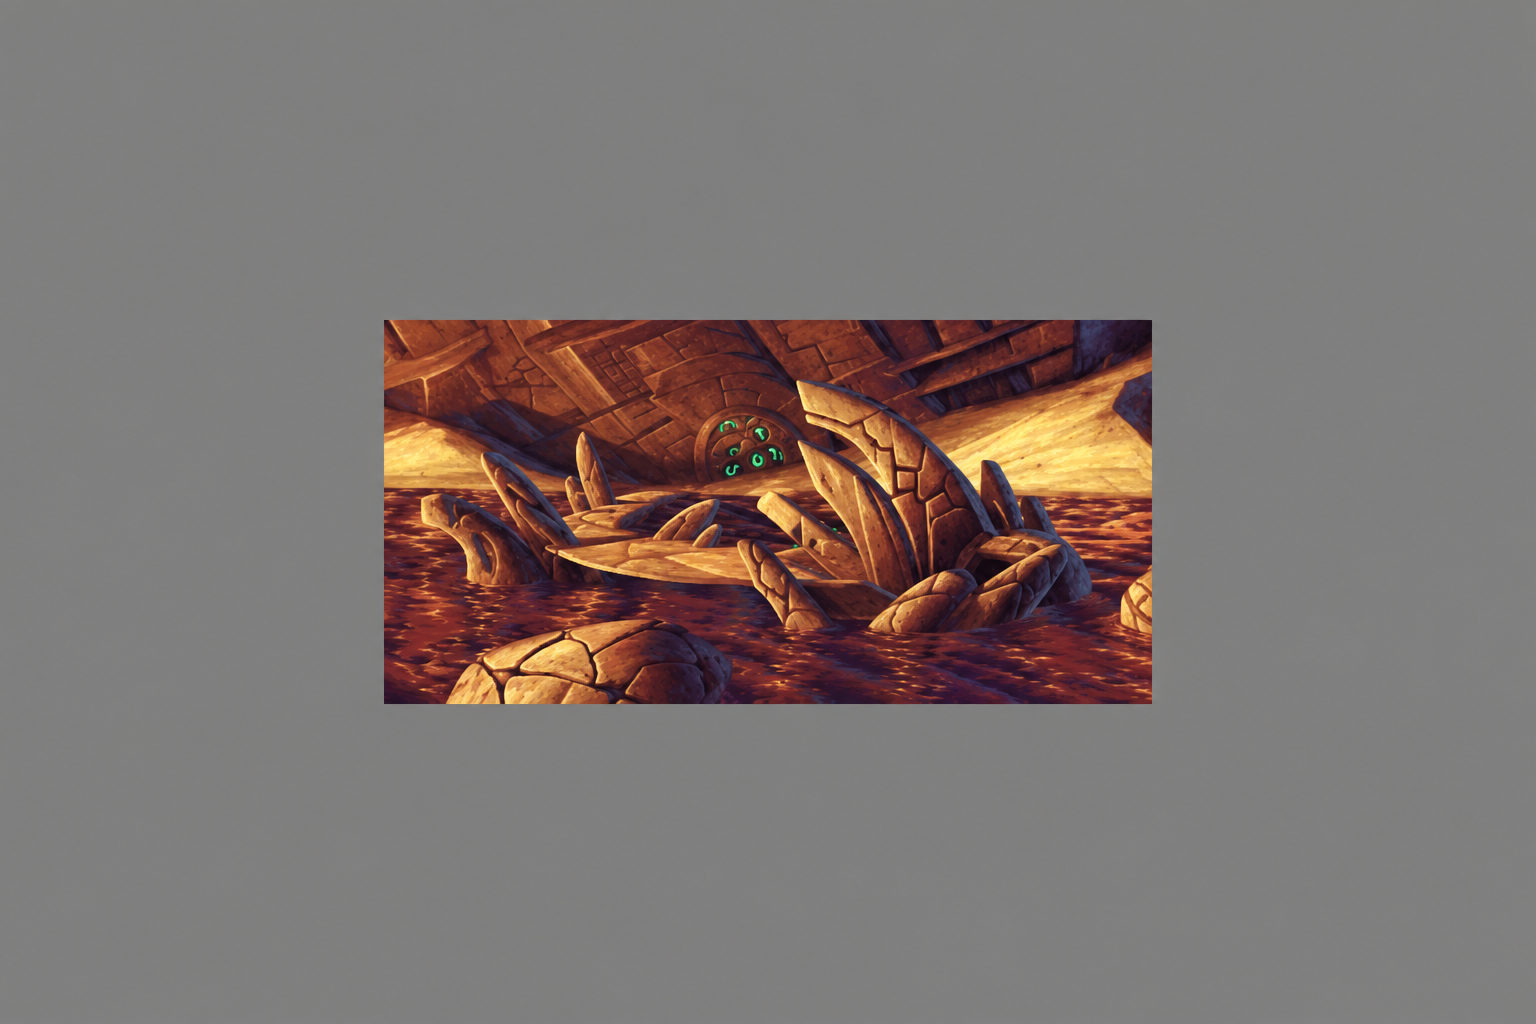
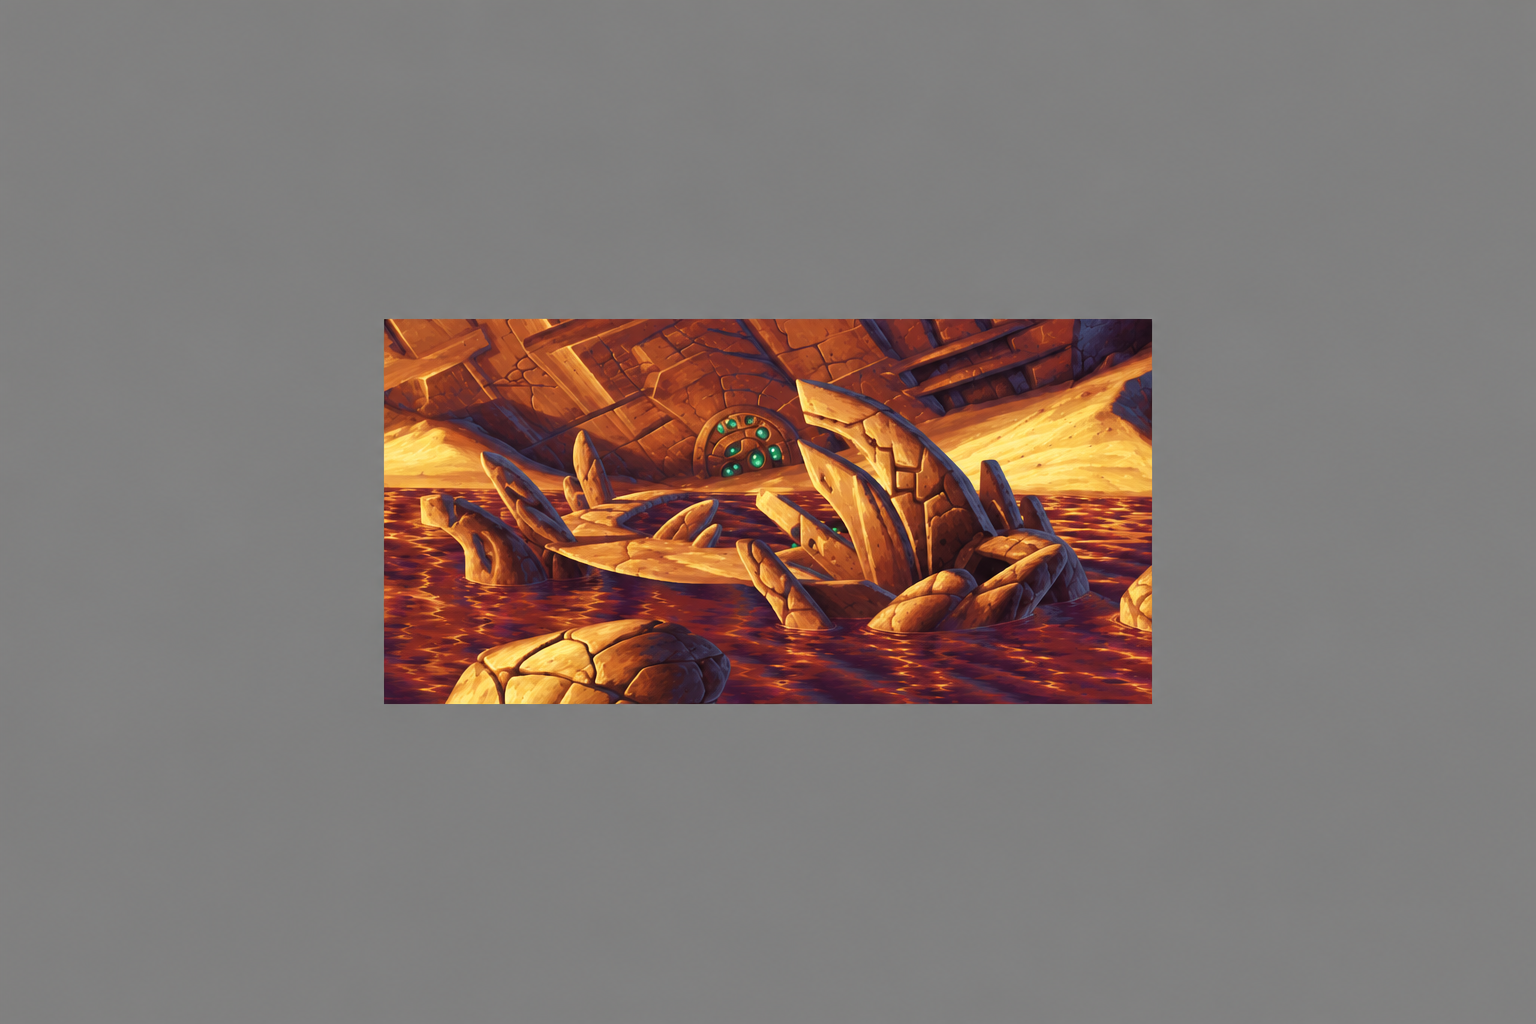
GPT: rom111, rom025_del3av3, rom026_del1av3, rom026_del2av3, rom026_del3av3, rom027_del1av8, rom027_del2av8, obj097_01, rom027_del3av8, rom027_del4av8

Changed region(s): [[0.25, 0.3125, 0.75, 0.6875]]

diff --git a/jobber/obj097_01/notat.md b/jobber/obj097_01/notat.md
@@ -1,32 +1,21 @@
-# Notat: obj097_01
+# obj097_01
 
-Status: Kandidat til kontroll. Ikke bekreftet trofast.
+Levert for Claudes kontroll.
 
-Dato: 2026-10-07T09:01:20+02:00 (Europe/Oslo).
-Verktøy: image_gen.imagegen, innebygd ChatGPT bildegenerering. Modellnavn og modellversjon ble ikke oppgitt.
-Antall forsøk: 2. Valgt forsøk: 2.
-Bilde 2 var stil/room009_core.png i begge forsøk.
-Gjeldende prompt.txt ble brukt ordrett, inkludert avsluttende linjeskift. Referanse.png var bilde 1.
-Resultatet er kopiert uendret fra generatoren. Ingen etterbehandling, fargelås eller kantreparasjon.
-Generert kilde: /home/tombonator3000t/.codex/generated_images/01a105a8-96c5-7003-8874-45f031b6d721/exec-f68131bf-616a-4c0f-86e6-ddbac68a22e6.png
-PNG størrelse: 1536 x 1024. PNG strukturen kunne dekodes og verifiseres.
+- Verktøy: ChatGPT Images, innebygd bildeverktøy i Codex. Modellnavn og versjon vises ikke.
+- Dato: 2026-10-07 10:33 CEST.
+- Forsøk: 4. Valgt forsøk: 4.
+- Prompt: prompt.txt brukt ordrett i alle forsøk.
+- Bilde 1: referanse.png. Bilde 2 i valgt forsøk: jobber/rom011/resultat.png.
+- Format: PNG, 1536 x 1024. Originalfilen fra bildeverktøyet er kopiert direkte.
 
-Visuell kontroll:
-Hovedstruktur og plassering av steinsplinter følger omtrent referansen. De grønne tegnene er mer buede enn i forsøk 1, som tolket dem som glødende edelstener, men tegnenes former er fortsatt omtolket. Bruddlinjer og enkelte små splinter har også endret form. De grønne gåtetegnene må kontrolleres særskilt, og kandidaten bør ikke integreres før dette er avklart.
-Gråkanten er teksturert og ikke jevn #808080.
+Nytt forsøk etter Claudes retur om grønne merker og samsvar med rom 11. Rom011/resultat.png er brukt som bilde 2 slik Claude ba om. Tredje forsøk endret størrelsen på motivet og ble forkastet; fjerde forsøk beholder utsnittets hovedstørrelse visuelt. Merkene er nå små grønne flekker i stedet for krøllete tegn, men generatoren tegner fortsatt en tydelig buet skive rundt dem. Kontroller flekkenes antall, plassering og samsvar med den godkjente rombakgrunnen før bruk. Dette er en kandidat til ny kontroll, ikke en bekreftelse på at returen er løst. Original prompt.txt ble brukt ordrett; returens alternative prompt er ikke brukt fordi Tom ennå ikke har svart på avklaringen om endret prompt.
 
-Skrivebeskyttet geometrikontroll:
-compare/judge fra canonical pipeline/dighd/gpt.py, Git blob ca8a4eb967bb563197ae798c0cb44ed070417fd7, ble kjørt i minnet mot original_1x.png med metadatautsnittet. dighd gpt-inn ble ikke kjørt.
-Skift x/y: 0.19/-0.06 originalpiksler. Blokk maksimum: 0.44. Kantlikhet: 0.972. Fargeavvik: 11.6. Format: lerret. Automatisk dom: godkjent.
-Dommen gjelder grov geometri og er ingen trofastgodkjenning eller godkjenning fra Claude/Tom.
-Gråkant: 1202496 av 1277952 piksler avviker fra RGB 128,128,128. Kanalverdier: 107 til 147.
+Den grå kanten har svak gradering og er ikke ensfarget #808080. Den er levert som generert.
 
-| Fil | SHA256 |
-| --- | --- |
-| referanse.png | 965dab5d774ee032826ba5eb112228379cbf7eb4756a3f9c474b9a2e4cd71471 |
-| original_1x.png | 0fbc0f568eff1da0e565ec942fb85d398fd9e75f7f8a346d5f7f027b0ecf0a0b |
-| prompt.txt | 1cf16ce2d8b9f0610543502319b6108f723b4ff42a2ce3b1db3713b64bea8521 |
-| stil/room009_core.png | fd37d46069b111b1f5c85bdfde9f429dbc5f8a7f8333efc9d24ab466fc6c2ba4 |
-| resultat.png | 428500f986f9d6e9f4972e2bf7a1ad4b9256bc3e8d9c7b4a529ed5c66045c024 |
+Visuell sammenligning er utført. Claudes automatiske kontroll, sammensying og kontroll i spillet gjenstår.
 
-Promptsjekksummen over gjelder hele filen med siste linjeskift. Metadata bruker samme tekst uten siste linjeskift. Inputfilene er beholdt uendret.
+Referanse SHA256: 965dab5d774ee032826ba5eb112228379cbf7eb4756a3f9c474b9a2e4cd71471
+Prompt SHA256: 1cf16ce2d8b9f0610543502319b6108f723b4ff42a2ce3b1db3713b64bea8521
+Stilanker SHA256: 3480c199b110010416d88eabfa1c8cb20c07823441b2dda9bf6146d5c7b42a85
+Resultat SHA256: 0db62e771d497440a441ca8efe23eb0f927b0c65a11a95511be80aa7ba321bd6

diff --git a/jobber/rom111/notat.md b/jobber/rom111/notat.md
@@ -3,13 +3,13 @@
 Levert for Claudes kontroll.
 
 - Verktøy: ChatGPT Images, innebygd bildeverktøy i Codex. Modellnavn og versjon vises ikke.
-- Dato: 2026-10-07 09:57 CEST.
-- Forsøk: 2. Valgt forsøk: 1.
+- Dato: 2026-10-07 10:33 CEST.
+- Forsøk: 3. Valgt forsøk: 3.
 - Prompt: prompt.txt brukt ordrett i alle forsøk.
-- Bilde 1: referanse.png. Bilde 2: stil/room022_beach.png.
+- Bilde 1: referanse.png. Bilde 2 i valgt forsøk: stil/room009_core.png.
 - Format: PNG, 1536 x 1024. Originalfilen fra bildeverktøyet er kopiert direkte.
 
-Forsøk 1 er valgt fordi refleksjonene i den store skålen er mindre kraftige enn i forsøk 2. De grønne feltenes hovedkonturer og fjellspissene er sammenlignet visuelt. De fineste konturene, den grønne gløden og bakgrunnens refleksjoner trenger Claudes kontroll.
+Nytt forsøk etter Claudes retur om lokal forskyvning opptil 4,4 originalpiksler. Referansen er brukt på nytt med core som stilanker. De fire grønne flatene og den store buede kanten følger referansens oppsett visuelt. Krystallkonturer og hulrom må måles på nytt av Claude; den tidligere avvisningen er ikke opphevet av denne visuelle kontrollen. Den varme refleksjonen i bakgrunnen er sterkere. Original prompt.txt ble brukt ordrett; returens alternative prompt er ikke brukt fordi Tom ennå ikke har svart på avklaringen om endret prompt.
 
 Den grå kanten har svak gradering og er ikke ensfarget #808080. Den er levert som generert.
 
@@ -17,5 +17,5 @@ Visuell sammenligning er utført. Claudes automatiske kontroll, sammensying og k
 
 Referanse SHA256: 2c68dd79b7849d984845ee2599e6e445b194ad9df4d67b66f03077b04dc2aed1
 Prompt SHA256: f5e5319b2aeb869bb02243dc9cc98900cdc8dc9731a63d232b8ddf92dd84ab3e
-Stilanker SHA256: 08796e71cd07d91b4a6773cc383c8589bd1f69f491d7e20c8f9f01b2f296f39f
-Resultat SHA256: 1b9a238fe7481e6504ca20471855fa574beb282c668926eb6b3a91a6ecb61da6
+Stilanker SHA256: fd37d46069b111b1f5c85bdfde9f429dbc5f8a7f8333efc9d24ab466fc6c2ba4
+Resultat SHA256: 8c83cd351534cff4e283e83e5affcebac2bf85e15c357f4ae97e268b968d5899

diff --git a/jobber/rom027_del3av8/notat.md b/jobber/rom027_del3av8/notat.md
@@ -1,0 +1,21 @@
+# rom027_del3av8
+
+Levert for Claudes kontroll.
+
+- Verktøy: ChatGPT Images, innebygd bildeverktøy i Codex. Modellnavn og versjon vises ikke.
+- Dato: 2026-10-07 10:33 CEST.
+- Forsøk: 2. Valgt forsøk: 2.
+- Prompt: prompt.txt brukt ordrett i alle forsøk.
+- Bilde 1: referanse.png. Bilde 2 i valgt forsøk: stil/room009_core.png.
+- Format: PNG, 1536 x 1024. Originalfilen fra bildeverktøyet er kopiert direkte.
+
+Valgt andre forsøk med roligere blå lyspunkter. Plattformens underside, den lange hengende strukturen og de store mørke feltene følger referansens hovedoppsett visuelt. Begge forsøk gjør flere små blå punkter og vertikale detaljer tydelige enn i originalen. Punktene og de tynne konturene er ikke bekreftet trofaste. Kontroller og korriger disse ved behov, samt overlappene mot de andre delene.
+
+Ingen grå kant i dette utsnittet.
+
+Visuell sammenligning er utført. Claudes automatiske kontroll, sammensying og kontroll i spillet gjenstår.
+
+Referanse SHA256: c26b6de8d1a6614105fb4b75b9956f85eb7c16680e22a20df011398a03d8a25d
+Prompt SHA256: 9d62e53e9403cbbeea26c684d9cc2aa611a404ac97543964d0bbeef0c87ac5ca
+Stilanker SHA256: fd37d46069b111b1f5c85bdfde9f429dbc5f8a7f8333efc9d24ab466fc6c2ba4
+Resultat SHA256: 4715bb3073d7feacaf79275bbfc0a56d6de7d22df7c94d13ee46620b7e4424b1

diff --git a/jobber/rom027_del1av8/notat.md b/jobber/rom027_del1av8/notat.md
@@ -1,0 +1,21 @@
+# rom027_del1av8
+
+Levert for Claudes kontroll.
+
+- Verktøy: ChatGPT Images, innebygd bildeverktøy i Codex. Modellnavn og versjon vises ikke.
+- Dato: 2026-10-07 10:33 CEST.
+- Forsøk: 1. Valgt forsøk: 1.
+- Prompt: prompt.txt brukt ordrett i alle forsøk.
+- Bilde 1: referanse.png. Bilde 2 i valgt forsøk: stil/room009_core.png.
+- Format: PNG, 1536 x 1024. Originalfilen fra bildeverktøyet er kopiert direkte.
+
+Plattformen, den brede skrå sokkelen og den buede gangveien til den oransje søylen følger referansens hovedoppsett. De små blå punktene på steinen til venstre er synlige også i originalen, men må kontrolleres hver for seg. Veggtekstur, mindre rør og små brudd er tydeligere og delvis tolket. Kontroller søylekonturer og alle overlapp.
+
+Ingen grå kant i dette utsnittet.
+
+Visuell sammenligning er utført. Claudes automatiske kontroll, sammensying og kontroll i spillet gjenstår.
+
+Referanse SHA256: 249232373a47522da66e05ff40043745379d9c562432c56f2145702375161a73
+Prompt SHA256: cad18d4877936ec401fd4c86ccd4359e2dcf537e62fda2a9d004bbdb24ca970a
+Stilanker SHA256: fd37d46069b111b1f5c85bdfde9f429dbc5f8a7f8333efc9d24ab466fc6c2ba4
+Resultat SHA256: f8b57ec2bcd3c6cb0c11badda0cc5a8573b9da1131b545bd344aabe86eeb4424

diff --git a/jobber/rom026_del1av3/notat.md b/jobber/rom026_del1av3/notat.md
@@ -1,0 +1,21 @@
+# rom026_del1av3
+
+Levert for Claudes kontroll.
+
+- Verktøy: ChatGPT Images, innebygd bildeverktøy i Codex. Modellnavn og versjon vises ikke.
+- Dato: 2026-10-07 10:33 CEST.
+- Forsøk: 1. Valgt forsøk: 1.
+- Prompt: prompt.txt brukt ordrett i alle forsøk.
+- Bilde 1: referanse.png. Bilde 2 i valgt forsøk: stil/room009_core.png.
+- Format: PNG, 1536 x 1024. Originalfilen fra bildeverktøyet er kopiert direkte.
+
+De store og små buene, vindusstagene, gangflaten og den delvis synlige gropen følger referansens hovedoppsett. De blå flatene og overflatene er mer detaljerte, og bølgemønsteret i bakgrunnen er tydeligere. Kontroller de tynne stagene, bakgrunnslinjene og overlappen mot del 2.
+
+Den grå kanten har svak gradering og er ikke ensfarget #808080. Den er levert som generert.
+
+Visuell sammenligning er utført. Claudes automatiske kontroll, sammensying og kontroll i spillet gjenstår.
+
+Referanse SHA256: adc00cc0aea37cec88bb73cb9ebfd40d13f7114f44056bbed64e272e81aa6197
+Prompt SHA256: 1d2af6b504387b45886c897ee0c6a0ed70e5c43916886fff90e0f66d7eb59751
+Stilanker SHA256: fd37d46069b111b1f5c85bdfde9f429dbc5f8a7f8333efc9d24ab466fc6c2ba4
+Resultat SHA256: 69d6140d91e84e4b8a281a874cfedfe1dc521cf49802655c75431acb63614f4f

diff --git a/jobber/rom025_del3av3/notat.md b/jobber/rom025_del3av3/notat.md
@@ -1,0 +1,21 @@
+# rom025_del3av3
+
+Levert for Claudes kontroll.
+
+- Verktøy: ChatGPT Images, innebygd bildeverktøy i Codex. Modellnavn og versjon vises ikke.
+- Dato: 2026-10-07 10:33 CEST.
+- Forsøk: 1. Valgt forsøk: 1.
+- Prompt: prompt.txt brukt ordrett i alle forsøk.
+- Bilde 1: referanse.png. Bilde 2 i valgt forsøk: stil/room009_core.png.
+- Format: PNG, 1536 x 1024. Originalfilen fra bildeverktøyet er kopiert direkte.
+
+Gangbroen, den mørke åpningen og hovedfasettene i den blå veggen følger referansens oppsett visuelt. Skarpere tekstur og flere små steinsprekker er lagt inn av generatoren. Kontroller særlig kanten under broen, den lille åpningen ved brofestet og overlappen mot del 2.
+
+Den grå kanten har svak gradering og er ikke ensfarget #808080. Den er levert som generert.
+
+Visuell sammenligning er utført. Claudes automatiske kontroll, sammensying og kontroll i spillet gjenstår.
+
+Referanse SHA256: e2eb1c7d099ea6ff05ae5c4ec95fa019d435ec019b1302f09048442acfc7771c
+Prompt SHA256: 0cb852dad8c8875692b7624ae5e68a78eb422adb5f3043ea59dad0bf094b48c2
+Stilanker SHA256: fd37d46069b111b1f5c85bdfde9f429dbc5f8a7f8333efc9d24ab466fc6c2ba4
+Resultat SHA256: 3eb3359861233ee31fbb4efe4e0bce3f3f7ff217ae02f9e61aaafa68636a64cb

diff --git a/jobber/rom027_del4av8/notat.md b/jobber/rom027_del4av8/notat.md
@@ -1,0 +1,21 @@
+# rom027_del4av8
+
+Levert for Claudes kontroll.
+
+- Verktøy: ChatGPT Images, innebygd bildeverktøy i Codex. Modellnavn og versjon vises ikke.
+- Dato: 2026-10-07 10:33 CEST.
+- Forsøk: 2. Valgt forsøk: 2.
+- Prompt: prompt.txt brukt ordrett i alle forsøk.
+- Bilde 1: referanse.png. Bilde 2 i valgt forsøk: stil/room009_core.png.
+- Format: PNG, 1536 x 1024. Originalfilen fra bildeverktøyet er kopiert direkte.
+
+Valgt andre forsøk med mindre punktglød. Den hengende strukturen og den mørke kløften følger hovedoppsettet visuelt. Generatoren gjør flere små blå punkter og fine linjer tydelige enn i referansen; punktmønsteret er ikke bekreftet trofast. Kontroller disse mot originalen og samsvaret med del 3 og del 6.
+
+Ingen grå kant i dette utsnittet.
+
+Visuell sammenligning er utført. Claudes automatiske kontroll, sammensying og kontroll i spillet gjenstår.
+
+Referanse SHA256: ddc571fb3cf416f4ae5731b9a9b7f33334588173bc4de1b2cfc3baef4d68b958
+Prompt SHA256: d070f4103c3e3d222c02333aef01992050e09dd8545ab6c82d81ff6358b5a4cd
+Stilanker SHA256: fd37d46069b111b1f5c85bdfde9f429dbc5f8a7f8333efc9d24ab466fc6c2ba4
+Resultat SHA256: fcb7ede2037b87ffbee7a133fc85f81153a680f7a83a21e140d7b4ce8733cddb

diff --git a/jobber/rom026_del2av3/notat.md b/jobber/rom026_del2av3/notat.md
@@ -1,0 +1,21 @@
+# rom026_del2av3
+
+Levert for Claudes kontroll.
+
+- Verktøy: ChatGPT Images, innebygd bildeverktøy i Codex. Modellnavn og versjon vises ikke.
+- Dato: 2026-10-07 10:33 CEST.
+- Forsøk: 1. Valgt forsøk: 1.
+- Prompt: prompt.txt brukt ordrett i alle forsøk.
+- Bilde 1: referanse.png. Bilde 2 i valgt forsøk: stil/room009_core.png.
+- Format: PNG, 1536 x 1024. Originalfilen fra bildeverktøyet er kopiert direkte.
+
+Sentralbuen, de runde sidebuene, gropen og de små stående lysfeltene følger hovedoppsettet visuelt. Gulvfugene og bølgemønsteret i de blå flatene er tolket. Kontroller særlig lysfeltenes antall, form og posisjon, samt begge overlappene.
+
+Den grå kanten har svak gradering og er ikke ensfarget #808080. Den er levert som generert.
+
+Visuell sammenligning er utført. Claudes automatiske kontroll, sammensying og kontroll i spillet gjenstår.
+
+Referanse SHA256: ea2d3669fbe474cc1331cb14cce0492cecb28417c3f713dce9b1dff952e61761
+Prompt SHA256: 9bc31d72106d15e153b7a3a0eaefdefc5dbb0909e1b58c5319139fd706c4de6a
+Stilanker SHA256: fd37d46069b111b1f5c85bdfde9f429dbc5f8a7f8333efc9d24ab466fc6c2ba4
+Resultat SHA256: 5013274b91744575d61acad3103533686e7130a99c3965dd66a702872e41d4e5

diff --git a/jobber/rom026_del3av3/notat.md b/jobber/rom026_del3av3/notat.md
@@ -1,0 +1,21 @@
+# rom026_del3av3
+
+Levert for Claudes kontroll.
+
+- Verktøy: ChatGPT Images, innebygd bildeverktøy i Codex. Modellnavn og versjon vises ikke.
+- Dato: 2026-10-07 10:33 CEST.
+- Forsøk: 1. Valgt forsøk: 1.
+- Prompt: prompt.txt brukt ordrett i alle forsøk.
+- Bilde 1: referanse.png. Bilde 2 i valgt forsøk: stil/room009_core.png.
+- Format: PNG, 1536 x 1024. Originalfilen fra bildeverktøyet er kopiert direkte.
+
+Buerekken, vindusstagene, gangflaten og gropen til venstre følger referansens oppsett visuelt. Små sprekker og bølgemønster er tolket. Kontroller stagene og lysfeltene i gropen mot del 2 ved sammensying.
+
+Den grå kanten har svak gradering og er ikke ensfarget #808080. Den er levert som generert.
+
+Visuell sammenligning er utført. Claudes automatiske kontroll, sammensying og kontroll i spillet gjenstår.
+
+Referanse SHA256: 688431f55086a4692d048090393905afd9dbed1f15d4364e1a8cd1710b3ee19b
+Prompt SHA256: 0cb852dad8c8875692b7624ae5e68a78eb422adb5f3043ea59dad0bf094b48c2
+Stilanker SHA256: fd37d46069b111b1f5c85bdfde9f429dbc5f8a7f8333efc9d24ab466fc6c2ba4
+Resultat SHA256: ea8efae8bd992f5209603ff59e1e2f3ce7fa1935d8a0a03e90b47db1e9754871

diff --git a/jobber/rom027_del2av8/notat.md b/jobber/rom027_del2av8/notat.md
@@ -1,0 +1,21 @@
+# rom027_del2av8
+
+Levert for Claudes kontroll.
+
+- Verktøy: ChatGPT Images, innebygd bildeverktøy i Codex. Modellnavn og versjon vises ikke.
+- Dato: 2026-10-07 10:33 CEST.
+- Forsøk: 1. Valgt forsøk: 1.
+- Prompt: prompt.txt brukt ordrett i alle forsøk.
+- Bilde 1: referanse.png. Bilde 2 i valgt forsøk: stil/room009_core.png.
+- Format: PNG, 1536 x 1024. Originalfilen fra bildeverktøyet er kopiert direkte.
+
+Gangveien, plattformen, sokkelen og den oransje søylen følger referansens hovedoppsett visuelt. Veggtekstur og små rør eller brudd i søylen er tydeligere og delvis tolket. Kontroller gangveiens bue og overgangen til del 1 og del 4.
+
+Ingen grå kant i dette utsnittet.
+
+Visuell sammenligning er utført. Claudes automatiske kontroll, sammensying og kontroll i spillet gjenstår.
+
+Referanse SHA256: 03d4006f0ed86b442d957e390ab299f397883ba7f638beed7ad55527dc812c4c
+Prompt SHA256: caa05f3383acd5b36125931f230558713eb606088f2da64472b1354baff3aca0
+Stilanker SHA256: fd37d46069b111b1f5c85bdfde9f429dbc5f8a7f8333efc9d24ab466fc6c2ba4
+Resultat SHA256: 718c0bac8a3aee54eeffadbe7d41a593387ae76e92978d49d7ab3a9da461e22b
